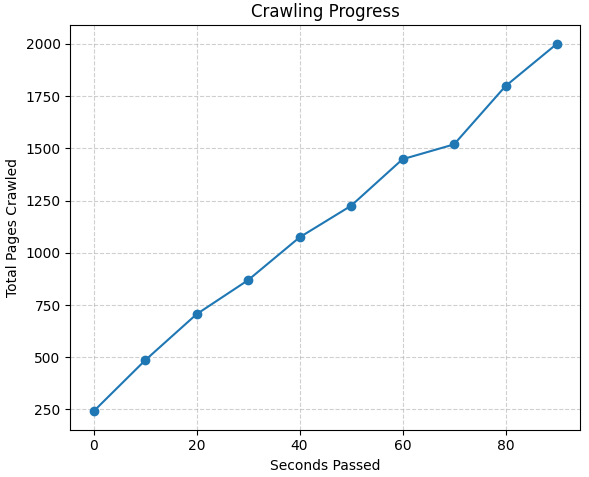
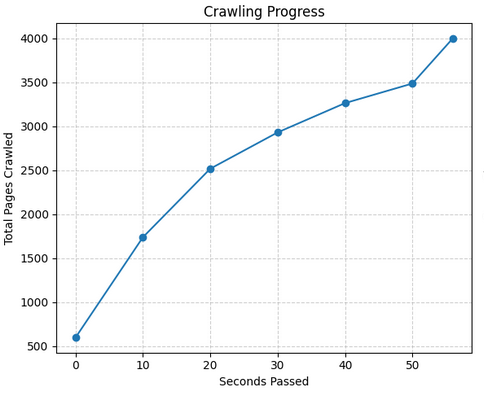
feat: fix search results & benchmarks

diff --git a/internal/db.go b/internal/db.go
@@ -67,8 +67,12 @@ func (c *DBClient) Search(keyword string) error {
 	}
 
 	// Print the results
+	visited := make(map[string]bool)
 	for _, res := range results {
-		log.Printf("%s", res.URL)
+		if _, ok := visited[res.URL]; !ok {
+			log.Printf("%s", res.URL)
+			visited[res.URL] = true
+		}
 	}
 	return nil
 }

diff --git a/cmd/lokix/main.go b/cmd/lokix/main.go
@@ -103,7 +103,7 @@ func main() {
 	}
 
 	// Main scheduling logic
-	for crawledSet.Total() <= 2000 && !scheduler.Empty() {
+	for crawledSet.Total() <= 5000 && !scheduler.Empty() {
 		targetURL, _ = scheduler.Dequeue()
 		if crawledSet.Contains(targetURL) {
 			// Don't rescrape existing URLs

diff --git a/internal/collections/crawledset.go b/internal/collections/crawledset.go
@@ -21,7 +21,8 @@ func (c *CrawledSet) Add(url string) {
 func (c *CrawledSet) Contains(url string) bool {
 	c.mu.Lock()
 	defer c.mu.Unlock()
-	return c.crawledURLS[hashURL(url)]
+	_, ok := c.crawledURLS[hashURL(url)]
+	return ok
 }
 
 func (c *CrawledSet) Total() int {

diff --git a/README.md b/README.md
@@ -46,8 +46,8 @@ Example Search
 ### Performance
 I used logging to determine the crawling progress, queue growth and queue growth/progress. The timestamped logs made it easier to plot the graphs
 ![Crawling Progress](images/crawling_progress.png)
-![Queue Growth](images/queue_growth.png)
-![Queue Growth vs Crawl Progress](images/queue_growth_vs_progress.png)
+![Queue Growth](images/queue_growth_vs_progress.png)
+![Queue Growth vs Crawl Progress](images/queue_growth.png)
 
 ### Experience
 Overall it was a great learning experience. I worked with concurrency and implemented threadpools for the first time. Also this is my first web-crawler implementation. The project is also completely based on Docker, and I learnt a lot about Docker as well. I'm especially proud as this is the first time I implemented a multi-stage build on a distroless base image along with a complete docker-compose, the DB is containerized as well. I also learnt about HTML parsing, and even though we have parsers you still have to dig a bit into HTML structure and how to avoid unwanted data. I also implemented a bare-bones inverted index, which serves basic search purpose but if I want to make it a search engine there's a long way to go.
@@ -62,7 +62,7 @@ I'm very proud of my first project that focusses completely on concurrency, and 
 - Creates an index for searching capabilities (also concurrent)
 - Shows stats every 10 seconds which include the no.of pages crawled and no.of URLS enqueued
 - Limits queue size to stop the queue from growing infinitely (which would lead to memory issues)
-- Achieved 25-30 pages crawled per second using 20 workers
+- Achieved ~60 pages crawled per second using 20+20 workers (crawlers + parsers)
 - Completely containerized to help fast setup
 - Basic search functionality using mongodb inverted-index
 
